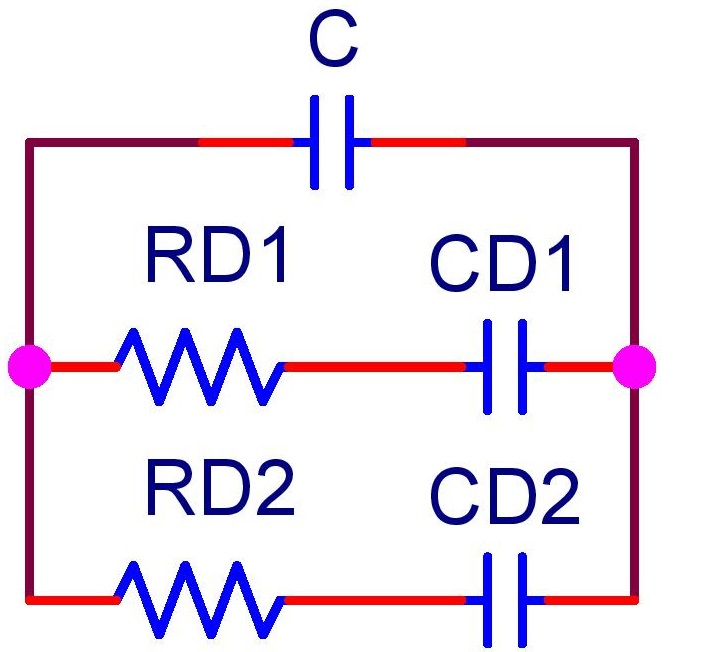
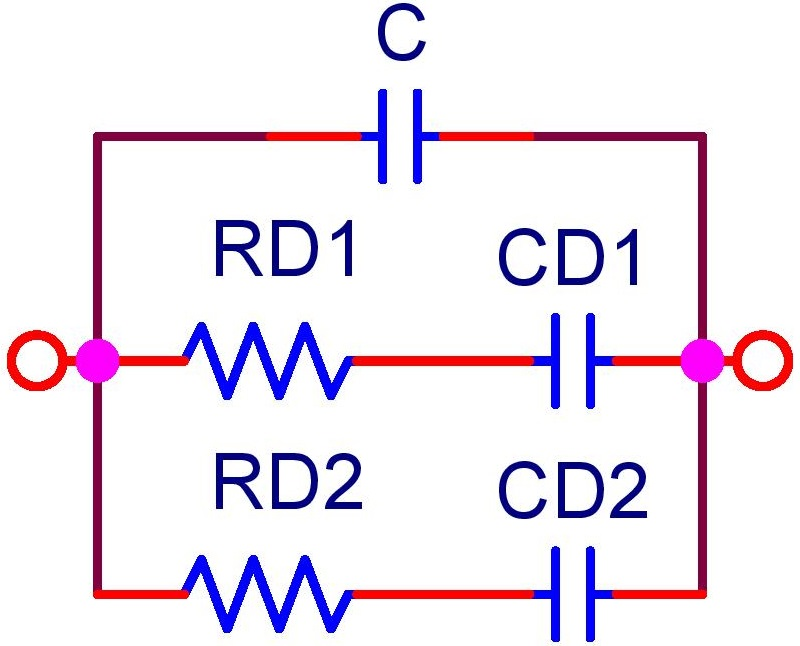
added nodes to models.

diff --git a/thesis/sections/todo.tex b/thesis/sections/todo.tex
@@ -18,7 +18,6 @@
 
 \subsection{Parameters}
 \begin{itemize}
-    \item Add nodes to models.
     \item Add angle marker to loss tangent image.
     \item Add model for leakage resistance.
 \end{itemize}
